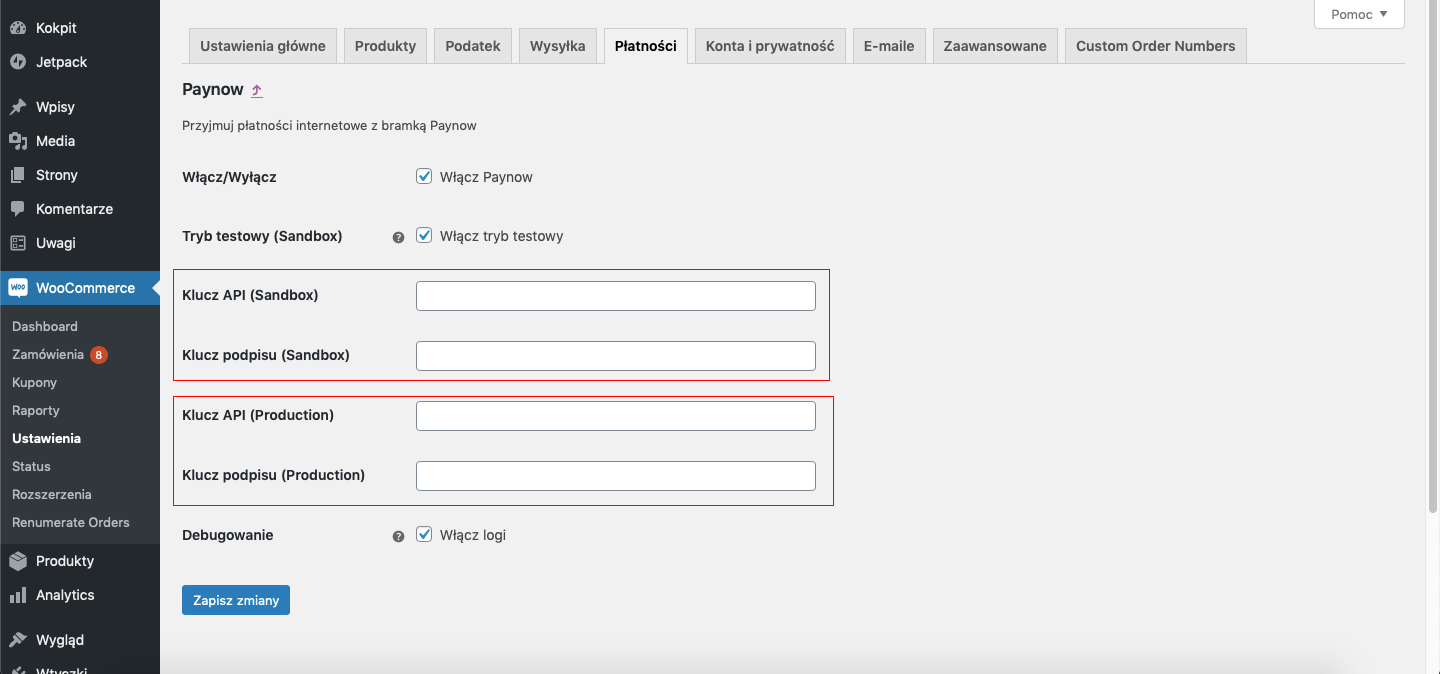
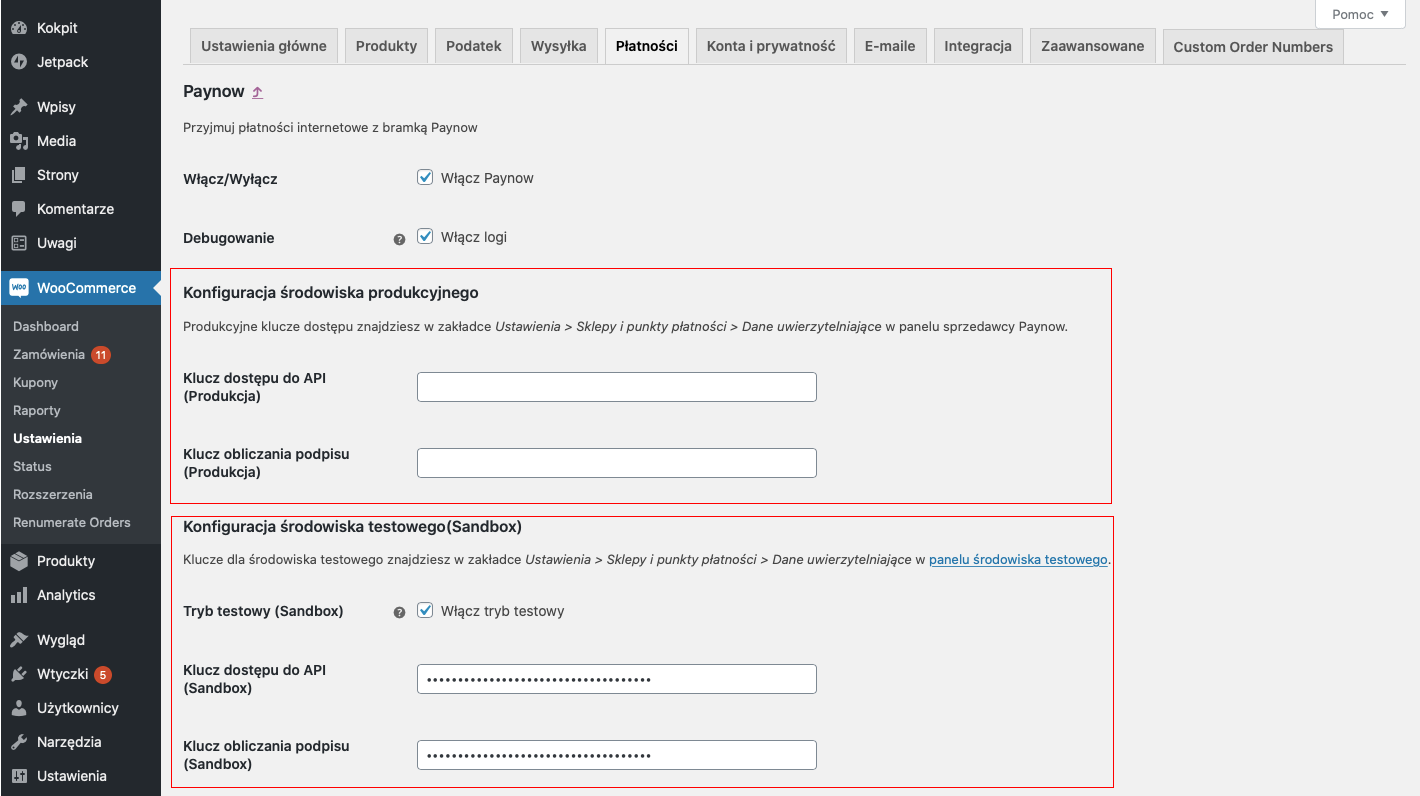
Updated readme

diff --git a/README.md b/README.md
@@ -48,13 +48,7 @@ Zobacz również [filmik instruktażowy][ext12].
 
 ![Konfiguracja krok 4][ext8]
 
-5. W zależności od środowiska, z którym chesz się połaczyć wpisz:
-* dla środowiska produkcyjnego
-    * `Klucz API (Production)` 
-    * `Klucz podpisu (Production)` 
-* dla środowiska testowego
-    * `Klucz API (Sandbox)` 
-    * `Klucz podpisu (Sandbox)`
+5. W zależności od środowiska, z którym chesz się połaczyć w sekcji `Konfiguracja środowiska produkcyjnego` lub `Konfiguracja środowiska testowego(Sandbox)` wpisz `Klucz dostępu do API` i `Klucz obliczania podpisu`.
 
 ![Konfiguracja krok 5][ext9]
 

diff --git a/README.EN.md b/README.EN.md
@@ -49,13 +49,7 @@ See also [instructional video][ext12].
 
 ![Configuration step 4][ext8]
 
-5. Depending on the environment you want to connect type:
-* for the production environment 
-    * `API  Key (Production)` 
-    * `Signature Key (Production)` 
-* for the sandbox environment 
-    * `API Key (Sandbox)` 
-    * `Signature Key (Sandbox)`
+5. Depending on the environment you want to connect to go to the `Production configuration` section or the `Sandbox configuration` section and type `Api Key` and `Signature Key` in the proper fields.
 
 ![Configuration step 5][ext9]
 
